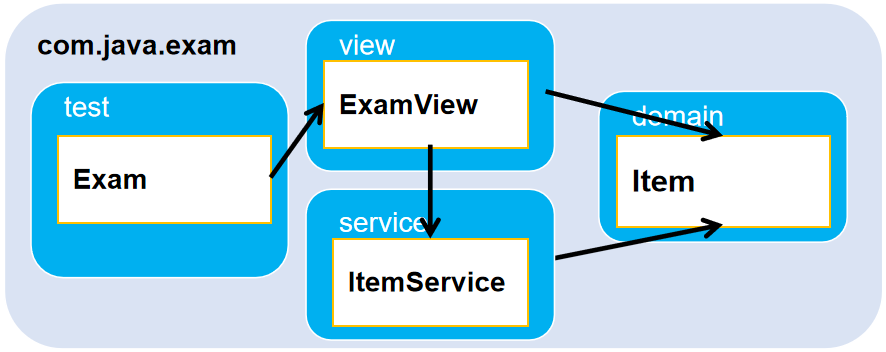
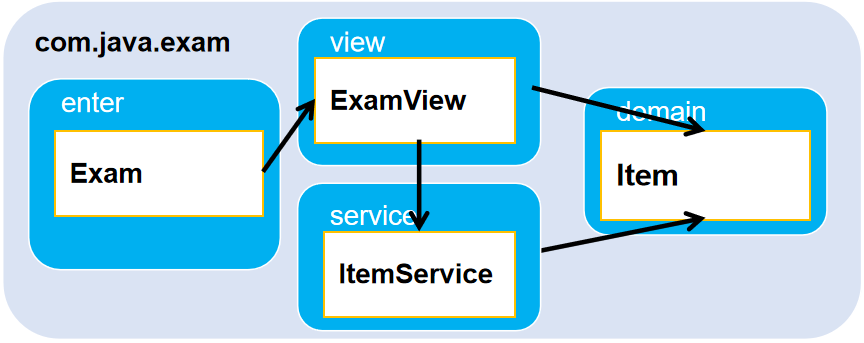
update project04

diff --git a/project04/src/com/java/exam/domain/Item.java b/project04/src/com/java/exam/domain/Item.java
@@ -1,0 +1,28 @@
+package com.java.exam.domain;
+
+import java.util.HashMap;
+import java.util.LinkedHashMap;
+import java.util.List;
+
+/**
+ * 考试题目类
+ *
+ */
+public class Item {
+    /* 题目描述 */
+    private String question;
+
+    /* 选项，结构: {"A":"option", "B":"option", "C":"option", "D":"option"} */
+    private LinkedHashMap<String, String> options;
+
+    /* 正确选项 */
+    private String rightOption;
+
+
+    // 构造器
+
+
+    // 方法
+
+
+}

diff --git a/project04/src/com/java/exam/view/ExamView.java b/project04/src/com/java/exam/view/ExamView.java
@@ -1,0 +1,9 @@
+/**
+ * 程序的主控类，负责与用户交互，完成考试及成绩查询功能
+ *
+ * */
+
+package com.java.exam.view;
+
+public class ExamView {
+}

diff --git a/project04/src/com/java/exam/service/ItemService.java b/project04/src/com/java/exam/service/ItemService.java
@@ -1,0 +1,9 @@
+/**
+ * 封装与考试题目访问相关的业务方法
+ *
+ * */
+
+package com.java.exam.service;
+
+public class ItemService {
+}

diff --git a/project04/src/com/java/exam/enter/Exam.java b/project04/src/com/java/exam/enter/Exam.java
@@ -1,0 +1,8 @@
+package com.java.exam.enter;
+
+/**
+ * 程序入口
+ */
+public class Exam {
+
+}

diff --git a/project04/README.md b/project04/README.md
@@ -23,6 +23,31 @@
 * 应尽量做到界面友好，操作方便。
 * 可选步骤，能够查询显示最后一次考试的答题情况和成绩。
 
+# 界面
+```text
+-------欢迎使用在线考试系统-------
+
+       1 进入考试
+       2 查看成绩
+       3 系统退出
+
+       请选择...
+
+```
+
+```text
+-----------欢迎进入考试-----------
+
+       使用以下按键进行考试：
+
+        A-B：选择指定答案
+        P  ：显示上一题
+        N  ：显示下一题
+        F  ：结束考试
+
+        请按N键进入考试...
+```
+
 
 # 软件设计结构
 ![](./images/包及主要类关系示意图.png)  
